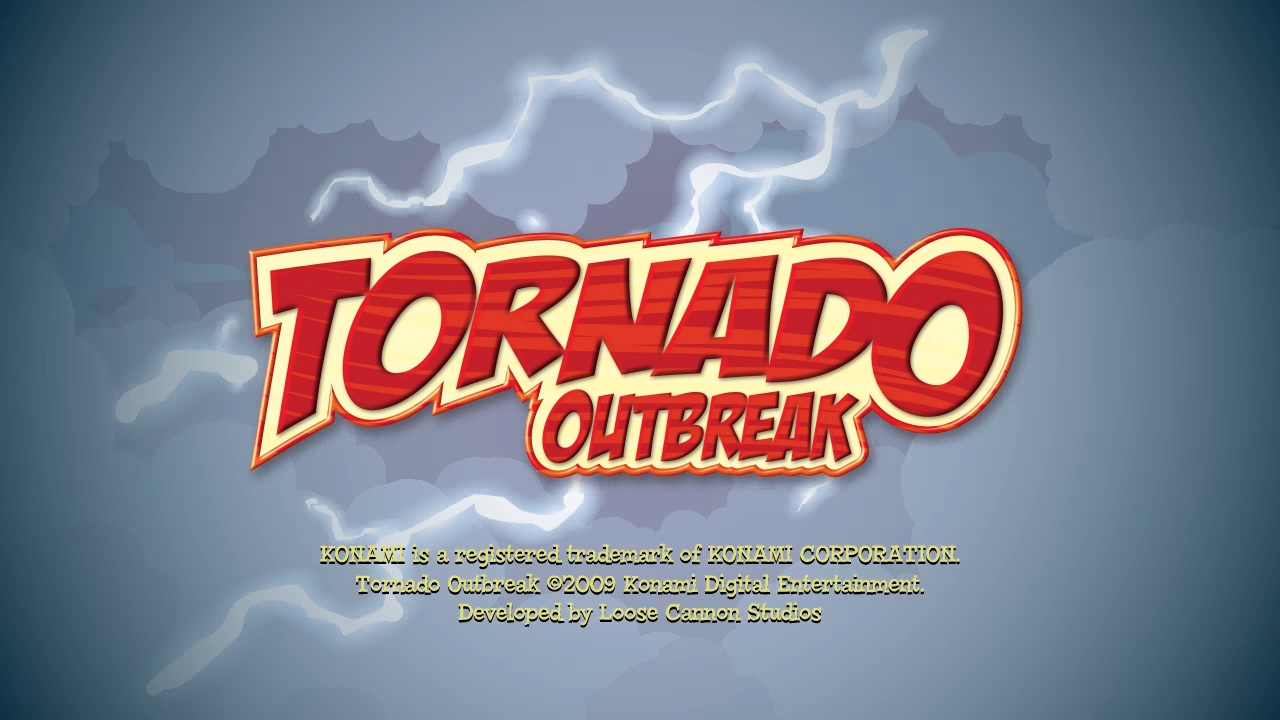
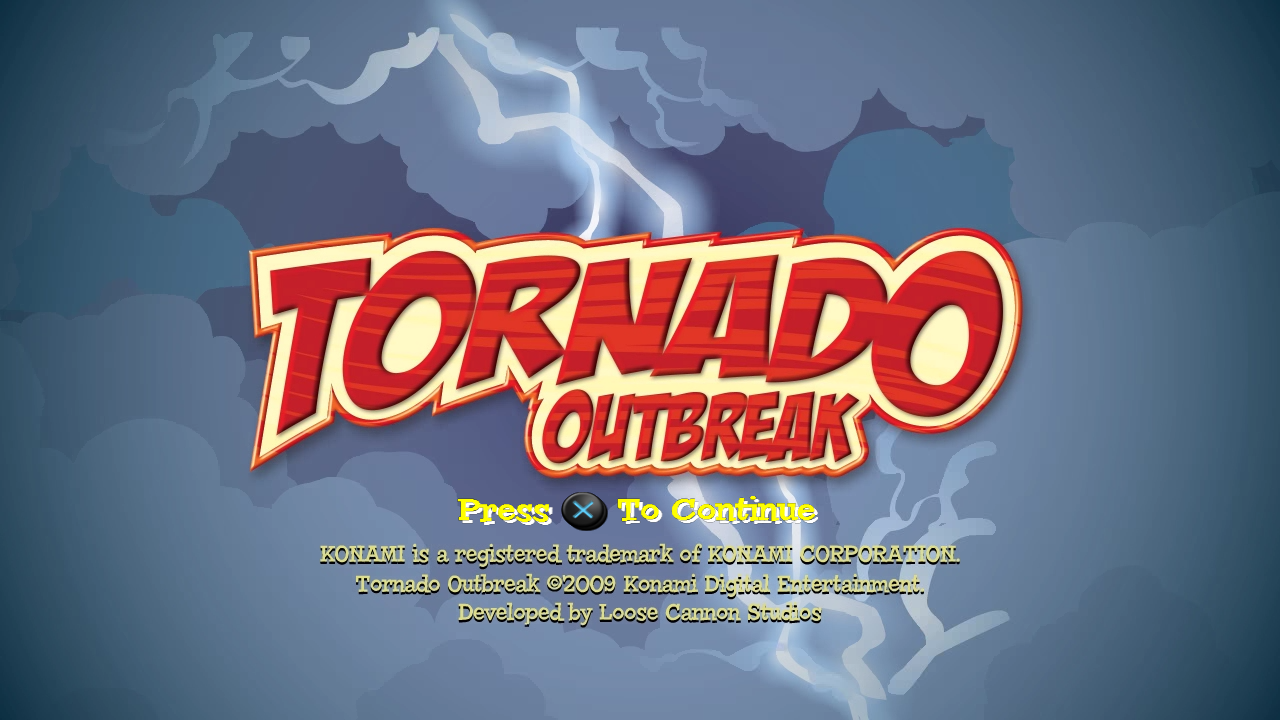
Rendering correct without overrides; new screenshots and hero GIF
Title, main menu, story intro, dialogue and gameplay now render correctly with
no debug switches -- the fixes (VP flow control, legacy multiply, condition
codes, GPU resolve copy, raw-SPU mailbox stall) are in ps3recomp. README gets
the hero GIF (the tornado tearing through the farmers' market), a screenshot
grid and the simplified headless recipe; progress log updated.

diff --git a/README.md b/README.md
@@ -3,17 +3,26 @@
 `BLUS30371`, disc release (Loose Cannon Studios / Konami, 2009). Recompiled with
 [ps3recomp](https://github.com/sp00nznet/ps3recomp).
 
+![Tornado Outbreak running natively on Windows: the tornado tears through the farmers' market](docs/media/hero.gif)
+
+| | |
+|---|---|
+| ![Title screen](docs/media/title.png) | ![Main menu](docs/media/menu.png) |
+| ![Story intro](docs/media/intro.png) | ![Dialogue](docs/media/dialogue.png) |
+| ![The market](docs/media/market.png) | ![Gameplay](docs/media/gameplay.png) |
+
+The window title shows the presented FPS, the draws in the last frame and the
+backbuffer size, e.g. `Tornado Outbreak | FPS: 30.57 | draws: 58 | 1280x720`.
+
 ## Status
 
-**In game.** Boots through the logos and Bink intro to the title, the main menu,
-New Game (the save is created), the story intro, and into the first level
-(`jb_intro`) with the tornado under player control at ~16 fps.
+**In game.** Logos and Bink intro, title, main menu, New Game (the save is
+created), the story intro and dialogue, then the first level (`jb_intro`) with
+the tornado under player control, pulling apart the farmers' market. Rendering
+is correct without any debug overrides. Gameplay runs at about 10–16 fps.
 
-![gameplay](docs/media/gameplay.png)
-
-Rendering is incomplete: UI text needs `LD_NO_DEPTH=1` plus a colour override to
-be readable, and debris renders as black blobs. See
-[docs/progress.md](docs/progress.md).
+Known: a few seconds into the level, a comic-style white transition fills the
+screen and does not clear. See [docs/progress.md](docs/progress.md).
 
 ## Why this title
 
@@ -49,14 +58,17 @@ python ../twistedmetal/tools/decrypt_self.py vfs/PS3_GAME/USRDIR/EBOOT.BIN \
 comparing the destination with the stack's top nibble (see progress.md).
 
 Headless, into gameplay (START, CROSS through the menu, New Game and the intro,
-then the left stick forward from 250 s; frames with `LD_FRAME_DUMP=<dir>`):
+then the left stick forward from 252 s to 300 s; frames with `LD_FRAME_DUMP=<dir>`,
+`LD_FRAME_DUMP_FROM=<frame>` to start late):
 
 ```bash
 S="18:0x0008,50:0x4000,70:0x4000"; for t in $(seq 95 8 240); do S="$S,$t:0x4000"; done
-PAD_SCRIPT="$S" PAD_STICK="128,0,128,128,250" \
-LD_NO_DEPTH=1 LD_FORCE_COL0=aea9d325fc921c6e LD_FRAME_DUMP=frames \
+PAD_SCRIPT="$S" PAD_STICK="128,0,128,128,252,300" LD_FRAME_DUMP=frames \
 PS3_VFS_ROOT=vfs RSX_LIVE_DRAW=1 PS3_MAIN_STACK_LV2=1 ./build/tornado vfs/PS3_GAME/USRDIR/EBOOT.elf
 ```
+
+`PAD_SCRIPT` presses are wall-clock timed, so a slow boot can shift which
+screen a press lands on.
 
 The Wwise SPURS jobs must be captured and lifted once (`spu_miss/`, see
 `tools/relift.sh`) or the game wedges after the New Game save.

diff --git a/docs/progress.md b/docs/progress.md
@@ -3,6 +3,27 @@
 Newest first. Fixes are in [ps3recomp](https://github.com/sp00nznet/ps3recomp)
 unless noted.
 
+## 2026-09-27: rendering correct, no overrides
+
+![hero](media/hero.gif)
+
+The black text, black speech bubbles, black smoke and leaves, the cyan
+"trapezoid", the black main menu and the flickering display all came from
+runtime bugs; nothing title-specific. Fixes are in ps3recomp:
+
+| Symptom | Cause |
+|---|---|
+| UI, particles and bubbles rendered black; the lit VS output 0 | **Vertex-program flow control was dropped.** BRI/CAL/RET carry no write mask, so the decompiler skipped them and every block ran: a shader branching around its lighting when lighting is off zeroed its colour and summed no lights. ~40 of this game's VPs branch. Now emitted as a block state machine |
+| Colour NaN in lit shaders | NV vertex programs multiply by the legacy rule (0 × anything = 0, INF/NaN included); IEEE made one RCP of zero poison the sum, and the FP's NaN guard turned it black. MUL/MAD/DP3/DP4/DPH now use it |
+| Predicated writes ran unconditionally, CC-only writes lost | VP condition codes were unmodelled |
+| Main menu presented black on two frames in three | The scaled NV3089 resolve was presented as a live alias of its source; it is now a real GPU copy into the display buffer at resolve time, sourced from the surface with the closest base (a stale surface at 0x0 "contained" the address first) |
+| Boot hang, ~1 run in 5, before GCM init | A raw SPU's outbound mailbox is one deep and `wrch` stalls when full; buffering let two replies queue and the PPU, testing bit 0 of the count, read 2 as empty |
+| Shader constants overwritten by FIFO words | `rsx_dispatch_method` indexed `regs[]` with methods up to 0xFFFFC; now bounds-checked |
+
+`tools/vp_eval.py` in ps3recomp evaluates a decompiled VP on the CPU with the
+constants and vertices a traced draw used — how the NaN and the dropped
+branches were found.
+
 ## 2026-09-26: in game
 
 Main menu → New Game → story intro → first level (`jb_intro.bgw.sdat`), the
